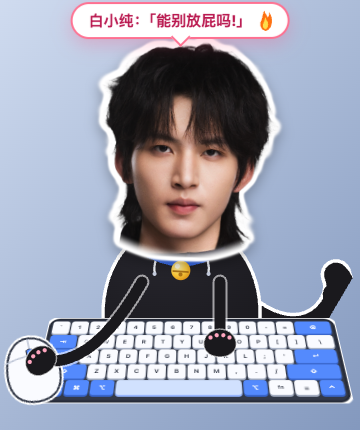
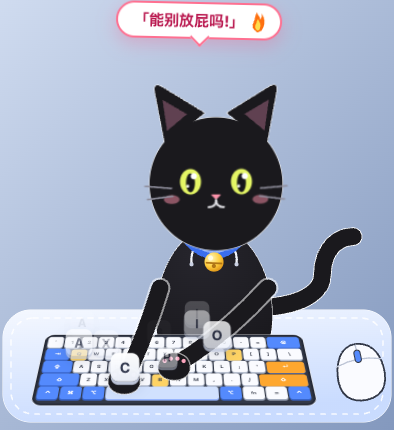
docs: README 截图更新为当前版本（新体态/白边/键盘/桌面配色）；修复 default-head 被本地覆盖导致的 photo 模式头图丢失；smoke 新增带底色待机截图

diff --git a/src/main/selftest.js b/src/main/selftest.js
@@ -126,6 +126,8 @@ async function runSelfTest(ctx) {
     log(`面板自然高度（无授权横幅）${pl.header + pl.content - pl.permH + pl.footer}px`);
     await shot('01-panel', panel);
     await js(pet, "document.documentElement.style.background = 'linear-gradient(135deg, #d5e0f2, #8ea3c6)'; 1"); // 后续截图垫一层底色
+    await sleep(150); // 等底色渲染一帧
+    await shot('01-idle-bg'); // README 用：带底色的当前待机造型
   });
 
   await step('hit-test', async () => { // 透明区域点击穿透，画了东西的地方可以交互

diff --git a/README.md b/README.md
@@ -6,7 +6,7 @@ Windows / macOS 通用。
 
 | 待机 | 触发「能别放屁吗!」 | 换身 / 换装等玩法 |
 | --- | --- | --- |
-| ![待机](docs/screenshot-idle.png) | ![冒火](docs/screenshot-angry.png) | ![玩法](docs/screenshot-video.png) |
+| ![待机](docs/screenshot-idle.png) | ![冒火](docs/screenshot-angry.png) | ![换装](docs/screenshot-variants.png) |
 
 身子有 4 种：小黑猫（默认）/ 蓝白猫 / **橘猫 / 奶黄猫**（卫衣人偶身已移除）。动作不是死的：姿态由不同频率的弹簧驱动
 （头、脊柱、挤压、尾根、尾尖互不同步），敲键盘、生气、被摸时会「踢」一下尾巴；发呆几秒还会随机歪头、
